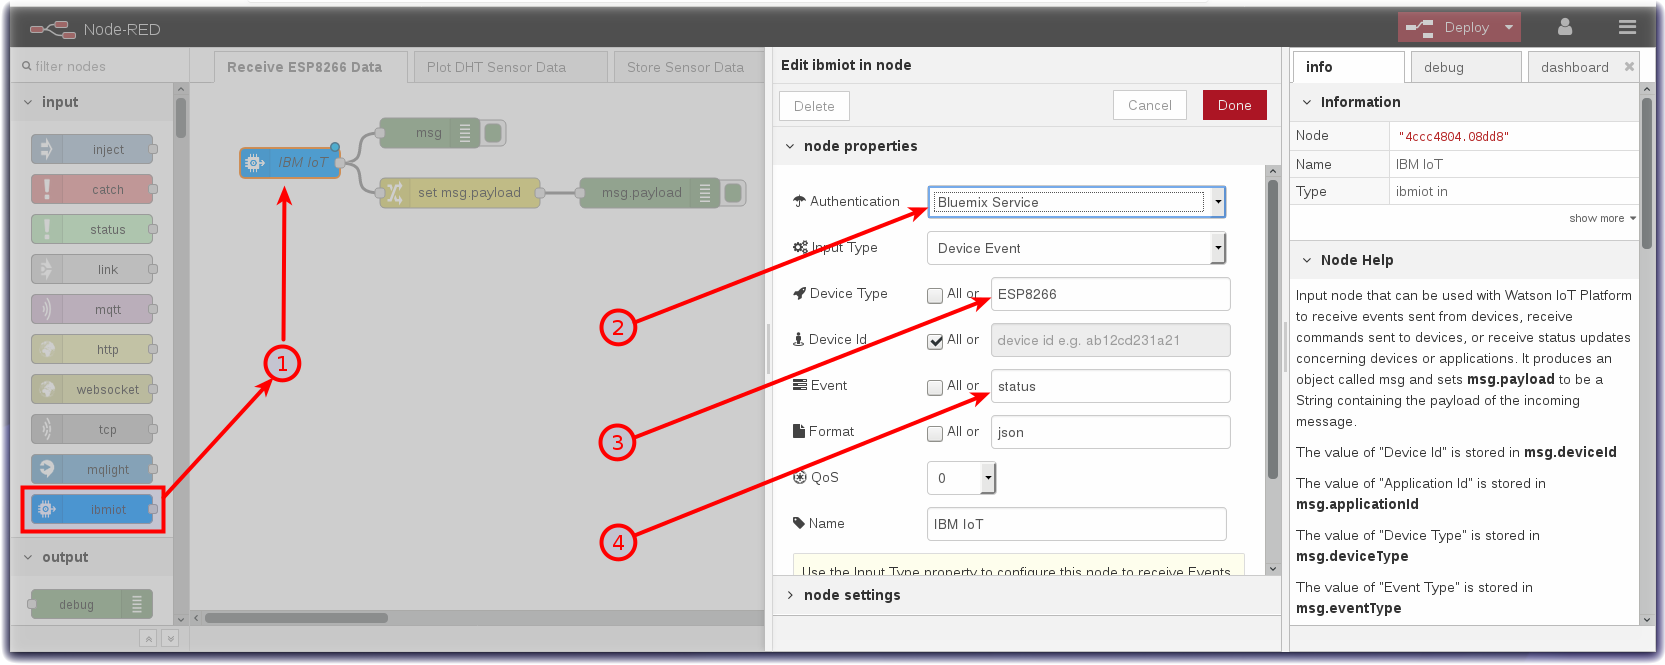
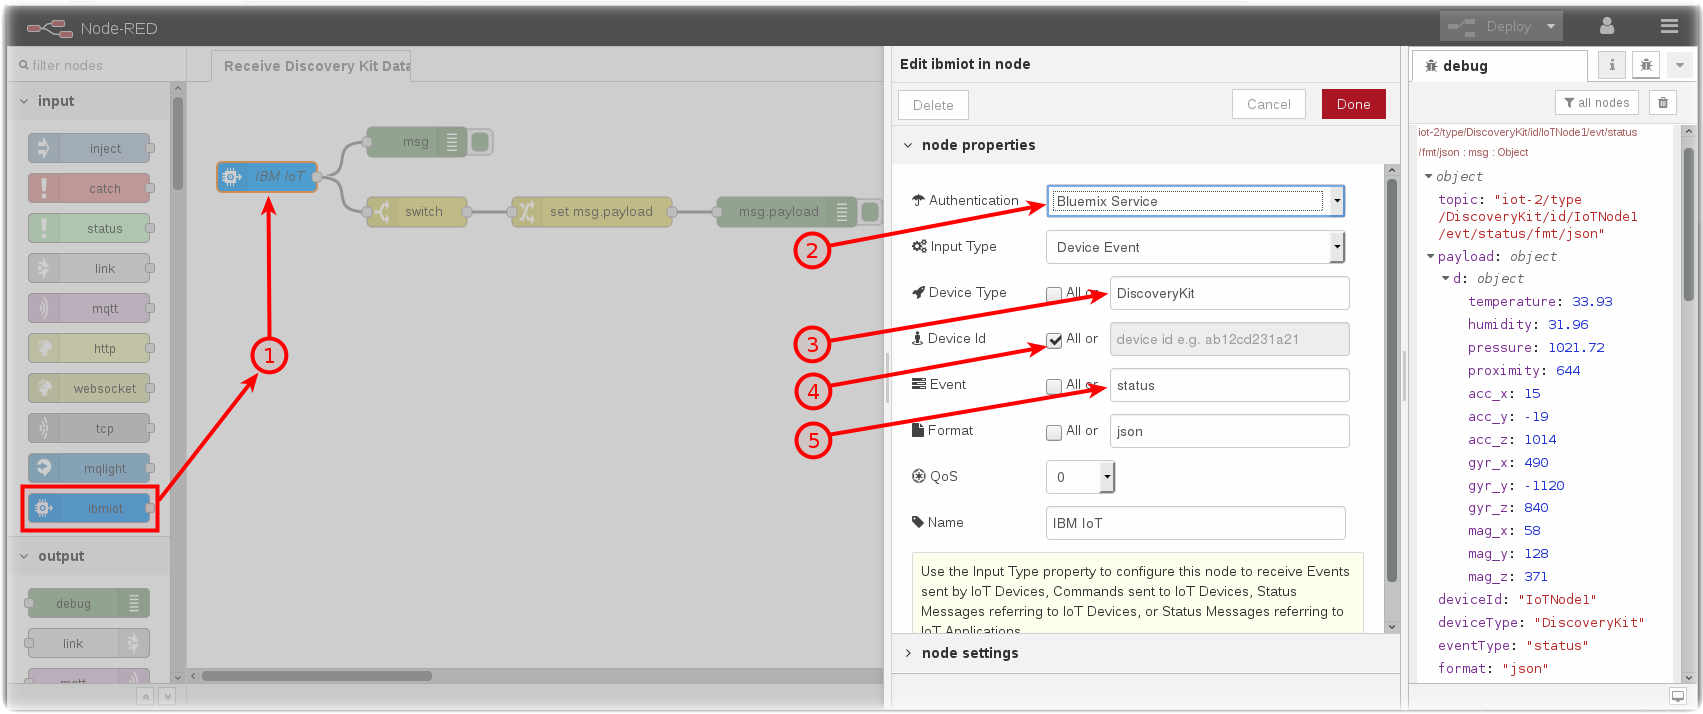
STM Discovery Kit IoT Node Workshop

diff --git a/DISCOVERYIOTDATA.md b/DISCOVERYIOTDATA.md
@@ -22,8 +22,8 @@ In just a few nodes, Node-RED can receive the data that was transmitted from the
 - Double-click on the IBM IoT node. An **Edit ibmiot in node** sidebar will open.
 - Configure the Authentication dropdown to **Bluemix Service** (2).
 - Uncheck All and set the Device Type to **DiscoveryKit** (3).
-- Check All Device Ids
-- Uncheck All and set the Event **status** (4).
+- Check All Device Ids (4)
+- Uncheck All and set the Event **status** (5).
 - Click on the red **Done** button.
  ![Receive DiscoveryKit Data](screenshots/DiscoveryKit-ReceiveData-IoTnode.png)
 
@@ -37,26 +37,26 @@ In just a few nodes, Node-RED can receive the data that was transmitted from the
 
 - Node-RED passes data from node to node in a *msg.payload* JSON object.
 - The **Switch** node can be used to test if the msg.payload.d.temperature is not null.
-- From the Function category of the left Node-RED palette, select a **Switch** node and drag it onto your Node-RED flow (5).
+- From the Function category of the left Node-RED palette, select a **Switch** node and drag it onto your Node-RED flow (6).
 - Double-click on the Switch node. An **Edit switch node** sidebar will open.
-- Set the "Property" field to *payload.d.temperature* (6).
-- From the dropdown, select **is not null** (7)
+- Set the "Property" field to *payload.d.temperature* (7).
+- From the dropdown, select **is not null** (8)
 - Click on the red **Done** button.
- ![Receive DiscoveryKit Data](screenshots/DiscoveryKit-ReceiveData-Changenode.png)
+ ![Receive DiscoveryKit Data](screenshots/DiscoveryKit-ReceiveData-Switchnode.png)
 
 - The **Change** node can be used to extract a particular value so that it can be directly output or manipulated (for instance in a Dashboard chart which we will take advantage of in the next section).
-- From the Function category of the left Node-RED palette, select a **Change** node and drag it onto your Node-RED flow (8).
+- From the Function category of the left Node-RED palette, select a **Change** node and drag it onto your Node-RED flow (9).
 - Double-click on the Change node. An **Edit change node** sidebar will open.
-- Configure the "to" AZ dropdown to msg. and set it to *payload.d.temperature* (9).
+- Configure the "to" AZ dropdown to msg. and set it to *payload.d.temperature* (10).
 - Click on the red **Done** button.
  ![Receive DiscoveryKit Data](screenshots/DiscoveryKit-ReceiveData-Changenode.png)
 
 ## Step 3 - Node-RED Debug Nodes
 
 - Debug nodes can be used to print out JSON object values and help you validate your program.
-- From the Output category of the left Node-RED palette, drag two **debug nodes** onto your Node-RED flow (10).
+- From the Output category of the left Node-RED palette, drag two **debug nodes** onto your Node-RED flow (11).
 - Double-click on one of them. An **Edit debug node** sidebar will open.
-- Configure the Output to print the *complete msg object* (11).
+- Configure the Output to print the *complete msg object* (12).
 - Click on the red **Done** button.
  ![Receive DiscoveryKit Data](screenshots/DiscoveryKit-ReceiveData-Debugnode.png)
 
@@ -67,6 +67,9 @@ In just a few nodes, Node-RED can receive the data that was transmitted from the
 - Observe the DiscoveryKit IoT Node sensor data in the **debug** tab of the Node-RED right sidebar.  You can expand the twisties to expose the JSON object information. Hover over a debug message in the right sidebar and the node that generated the message will be outlined in orange.
   ![Receive DiscoveryKit Data](screenshots/DiscoveryKit-ReceiveData-Deploy.png)
 
+**Congratulations** - Your Node-RED flow is receiving sensor data from the Discovery Kit board.
+
+Continue to the next step - [Node-RED Charts](DASHBOARD.md)
 ***
 *Quick links :*
 [Home](README.md) - [IoT Platform Starter](CREATEIOTP.md) - [Device Types and Devices](DISCOVERYDEVICE.md) - [Node-RED Setup](NODERED.md) - [Sensor Data](DISCOVERYIOTDATA.md) - [Node-RED Charts](DASHBOARD.md) - [Store Data in Cloud Storage](CLOUDANT.md) - [Historical Charts](HISTORY.md) - [Watson Studio](STUDIO.md) - [Jupyter Notebooks](JUPYTER.md)

diff --git a/DISCOVERYDEVICE.md b/DISCOVERYDEVICE.md
@@ -7,7 +7,7 @@
 
 ## Lab Objectives
 
-This Lab will show you how to register your ST Micro Discovery Kit IoT Node with the IBM Watson Internet of Things Platform.  In the lab you will learn:
+This Lab will show you how to register your ST Microelectronics Discovery Kit IoT Node with the IBM Watson Internet of Things Platform.  In the lab you will learn:
 
 - How to define a device type and register a device in the Watson IoT Platform
 
@@ -19,7 +19,7 @@ You need to decide how you want to group devices, by function, by hardware type,
 
 ### Step 1 - Add a new device type for Discovery Kit IoT Node device
 
-- Navigate into the Devices section (1) of the console
+- Navigate into the **Devices** section (1) of the console
 ![Create DiscoveryKit Device](screenshots/IoTP-Devices.png)
 
 - Select the **Device Types** section (2).  Press the **+ Add Device Type** (3) button
@@ -34,10 +34,10 @@ You need to decide how you want to group devices, by function, by hardware type,
 - Press the **Done** button (6)
 ![Create DiscoveryKit Device](screenshots/IoTP-DeviceType-Done.png)
 
-### Step 2 - Register a new Discovery Kit device in the IoT Platform
+### Step 2 - Register a new DiscoveryKit device in the IoT Platform
 
 You now have the opportunity to register a device.
-- Press **Register Device** (7)
+- Press **Register Devices** (7)
 ![Create DiscoveryKit Device](screenshots/IoTP-DeviceRegister.png)
 
 - The DiscoveryKit device type should be pre-selected.  You now need to enter a unique device ID.  You can choose how you want to identify devices.  For the workshop, use a simple format, such as **IoTNode1**. (8)
@@ -46,11 +46,11 @@ You now have the opportunity to register a device.
 
 - Press **Next** button (10)
 ![Create DiscoveryKit Device](screenshots/IoTP-DeviceInfo.png)
-- You will be prompted to provide a token (11).
+- You will be prompted to provide a token (11)
 
 - Each time you connect the device the token will need to be presented to the server. Once the device is registered there is no way to recover a token. You will need to delete and reregister the device if the token is lost or forgotten.
 
-- Enter a **token** for your device (11) then press **Next** (12). *Warning:* Do not select an auth token with the word **Token**
+- Enter a **token** for your device (11) then press **Next** (12).
 ![Create DiscoveryKit Device](screenshots/IoTP-DeviceToken.png)
 
 - You will see a summary of the device.  Press **Done** to complete the device registration.
@@ -142,10 +142,11 @@ publishing sensor data
 ### Discovery Kit IoT Node Environmental Sensor data in Watson IoT platform
 
 Confirm in Watson IoT Platform that ST Microelectronics Discovery Kit IoT Node environmental sensor data is arriving successfully.
-![Create DiscoveryKit Device](screenshots/IoTP-DeviceCreds.png)
+![Create DiscoveryKit Device](screenshots/IoTP-DeviceEventData.png)
 
 **Congratulations** : Your board is sending data securely to Watson IoT Platform using TLS encrypted MQTT packets and server certificates.
 
+Continue to the next step - [Node-RED Setup](NODERED.md)
 ***
 *Quick links :*
 [Home](README.md) - [IoT Platform Starter](CREATEIOTP.md) - [Device Types and Devices](DISCOVERYDEVICE.md) - [Node-RED Setup](NODERED.md) - [Sensor Data](DISCOVERYIOTDATA.md) - [Node-RED Charts](DASHBOARD.md) - [Store Data in Cloud Storage](CLOUDANT.md) - [Historical Charts](HISTORY.md) - [Watson Studio](STUDIO.md) - [Jupyter Notebooks](JUPYTER.md)

diff --git a/HISTORY.md b/HISTORY.md
@@ -20,7 +20,7 @@ The previous section stored the Device environment sensor data into a Cloudant D
 - Open the “Get the Code” github URL listed below, mark or Ctrl-A to select all of the text, and copy the text for the flow to your Clipboard. Recall from a previous section, click on the Node-RED Menu, then Import, then Clipboard. Paste the text of the flow into the Import nodes dialog and press the red Import button.
 
 <p align="center">
-  <strong>Get the Code: <a href="flows/NRD-STMSensorData-HistorianChart.json">Node-RED Historian Chart Flow</strong></a>
+  <strong>Get the Code: <a href="flows/NRD-HistorianChart-STMSensorData.json">Node-RED Historian Chart Flow</strong></a>
 </p>
 
 - Click on the **Cloudant** node on the Historical Chart flow to confirm that it is configured to your IoT Platform Cloudant service instance.

diff --git a/NODERED.md b/NODERED.md
@@ -96,6 +96,9 @@ In this step, you will **learn** how to Import a prebuilt flow from GitHub
 - The new flow will be imported into a new tab in the Node-RED Editor.
 - Click the **Deploy** button on the top of menu bar to deploy the Node-RED flow.
 
+### Congratulations - Node-RED is configured
+Continue to the next step - [Sensor Data](DISCOVERYIOTDATA.md)
+
 ***
 *Quick links :*
 [Home](README.md) - [IoT Platform Starter](CREATEIOTP.md) - [Device Types and Devices](DISCOVERYDEVICE.md) - [Node-RED Setup](NODERED.md) - [Sensor Data](DISCOVERYIOTDATA.md) - [Node-RED Charts](DASHBOARD.md) - [Store Data in Cloud Storage](CLOUDANT.md) - [Historical Charts](HISTORY.md) - [Watson Studio](STUDIO.md) - [Jupyter Notebooks](JUPYTER.md)

diff --git a/CREATEIOTP.md b/CREATEIOTP.md
@@ -59,8 +59,10 @@ Return to the IBM Cloud Application Details page.
 * The **Watson IoT Platform** service will open in a new browser tab and you can create an IoT device.
 ![IoT Platform Device Page](screenshots/IoTP-Service-DevicePage.png)
 
-## Finished
-Congratulations.  You have completed the creation of a Watson Internet of Things Platform Starter application in IBM Cloud.
+
+**Congratulations** - You have completed the creation of a Watson Internet of Things Platform Starter application in IBM Cloud.
+
+Continue to the next step - [Device Types and Devices](DISCOVERYDEVICE.md)
 
 ***
 *Quick links :*
